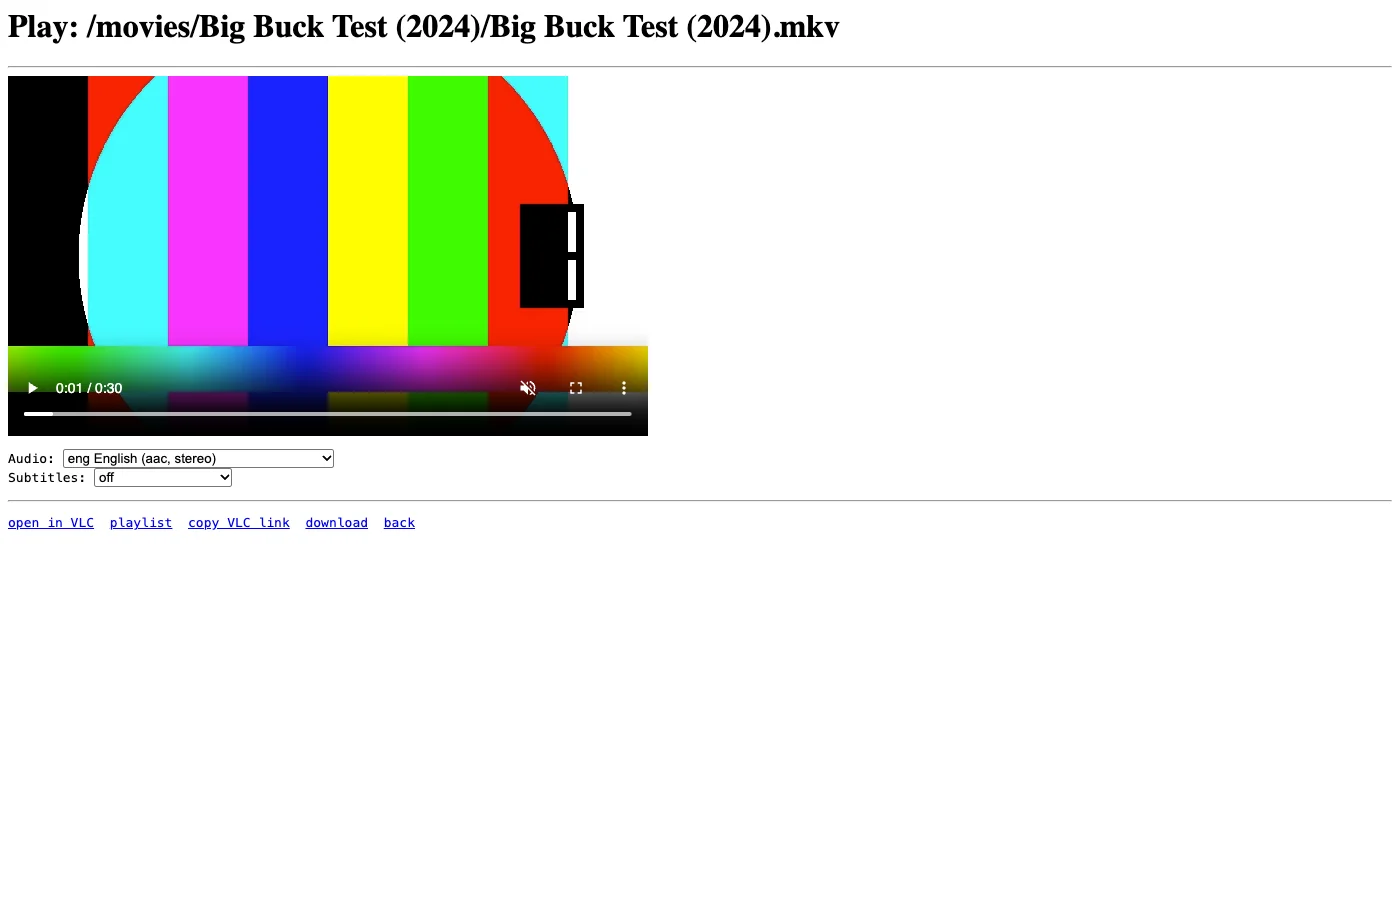
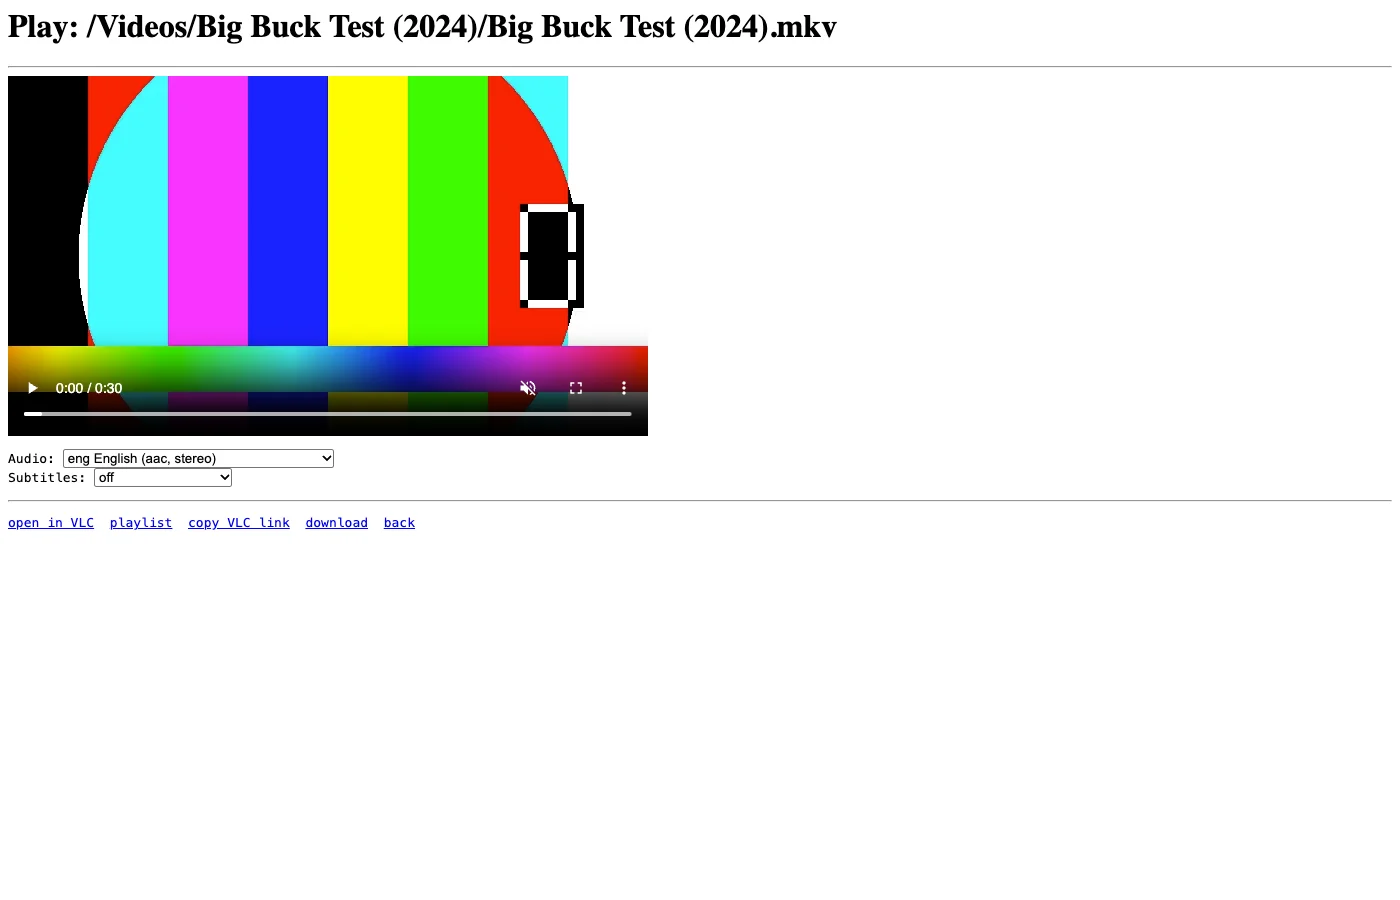
1.0.1: the upload line at the top of a writable folder; a browser test; README files first

Changed region(s): [[0.0614, 0.0, 0.5836, 0.0622], [0.0, 0.3733, 0.4607, 0.4356], [0.3686, 0.2178, 0.3993, 0.3422]]

diff --git a/web/pages/upload.html b/web/pages/upload.html
@@ -17,7 +17,9 @@ fetch('/_settings', { cache: 'no-store' }).then(r => r.ok ? r.json() : null).cat
   if (s && s.mounts) settings = s;
   const w = document.getElementById('w');
   if (searching) w.remove();
-  else if (!writable(here)) { w.textContent = 'read-only folder'; w.hidden = false; }
+  // (Uploads and new folders: any folder of a writable mount, its top level included; only
+  // renaming, moving and deleting spare the mounted folder itself.)
+  else if (settings.mounts[mountOf(here)] !== 'rw') { w.textContent = 'read-only folder'; w.hidden = false; }
   else { w.hidden = false; scpLine(); }
   actions();
 });

diff --git a/README.md b/README.md
@@ -1,8 +1,8 @@
 <h1 align="center">indexof</h1>
 
 <p align="center">
-  <strong>nginx's "Index of /" for the folders on your home server, with the few things it was missing. Self-hosted, no frills.</strong><br>
-  Log in, browse, search, upload, zip a folder, play a video in the browser or open it in VLC. Two small containers, two secrets, any folders you mount.
+  <strong>A plain file server for your home: nginx's "Index of /" with the few things it was missing. Self-hosted, no frills.</strong><br>
+  The household's shared drive, from any browser: browse, upload, download, search, zip, rename, organise. Videos and music play too. Two small containers, two secrets, any folders you mount.
 </p>
 
 <p align="center">
@@ -11,40 +11,35 @@
 </p>
 
 <p align="center">
-  <img src="docs/screenshots/listing.webp" alt="The listing of a movies folder: nginx's Index of /, with the filter and Search line above it, sizes and dates, and [play] [vlc] [zip] on each line" width="900">
+  <img src="docs/screenshots/listing.webp" alt="A Documents folder: nginx's Index of / with sizes and dates, [zip] [rename] [delete] on each line, the search and sort line above, and the upload line, free space and logout below" width="900">
 </p>
 
 ## What it does
 
-- **The listing you know.** It is nginx's own "Index of /", unchanged in look. Above it, a
-  live filter, a Search button (or Enter), sort by name, date or size, pages of 100, checkboxes
-  with "zip selected", the folders' sizes filled in as you look, and the free space.
-- **Search.** Text, folder, files or folders, kind, how many results at most. The results come
-  in the listing's own format, with date and size.
-- **Upload from the browser or the terminal.** Several files, three at a time, each with its %,
-  time left and `[cancel]`; `[cancel all]`; a warning before you leave mid-upload; a cancelled
-  upload leaves nothing behind. New folders, `[rename]` (or move) and `[delete]` in the folders
-  you mount writable. Prefer the terminal? Set `INDEXOF_SCP` and the page shows the `scp` line
-  for the folder you are in, ready to copy.
-- **Zips.** `[zip]` on any folder, or tick some lines and "zip selected". The archive is
-  streamed as it is made, nothing is written on the server; hidden files and symbolic links are
-  left out.
-- **A player that never converts.** `[play]` opens the file as it is: video, audio, pictures
-  (`[view]`). Pick the audio track and the subtitles from what is inside the file. When the
-  browser cannot play a file (Dolby or DTS sound, say), the player says so, and VLC is one click
-  away.
-- **Open in VLC.** `[vlc]` next to a video, "open in VLC" in the player: VLC on your computer
-  plays the file through a temporary link, so everything a browser cannot play still plays. A
-  playlist and "copy VLC link" for computers without the helper.
-- **Any folders, read-only or writable.** Mount what you like under `/data`. A folder mounted
-  `:ro` can be browsed, searched, zipped, played and downloaded, never changed; a writable one
-  takes uploads, new folders, rename, move and delete. Nothing else to configure.
+- **Your folders, from any browser.** Documents, photos, backups, the things you share at home:
+  mount any folders under `/data` and they are there, on the computer or the phone, with nothing
+  to install. It is nginx's own "Index of /", unchanged in look, with sizes and dates.
+- **Upload, download, organise.** Upload from the browser (several files, three at a time, each
+  with its %, time left and `[cancel]`), make folders, `[rename]` or move, `[delete]`, in the
+  folders you mount writable. Download any file with a click. Prefer the terminal? Set
+  `INDEXOF_SCP` and the page shows the `scp` line for the folder you are in, ready to copy.
+- **Find things.** A live filter on the folder you are in, and Search across all of them: text,
+  folder, files or folders, kind (documents, pictures, videos, archives…). Sort by name, date or
+  size; pages of 100; each folder's size filled in as you look; the disk's free space.
+- **Zip and take away.** `[zip]` on any folder, or tick some lines and "zip selected". The
+  archive is streamed as it is made, nothing is written on the server.
+- **Read-only where you want it.** A folder mounted `:ro` can be browsed, searched, downloaded
+  and zipped, never changed. A writable one takes uploads and changes. Nothing else to
+  configure.
+- **Videos, music and pictures too.** `[play]` and `[view]` open them in the browser as they
+  are, never converted, with the audio track and subtitles from inside the file. What the browser
+  cannot play opens in VLC with one click (`[vlc]`).
 - **One password, no accounts.** Everyone in the household uses the same password; a login
   holds 30 days.
 - **Two small containers.** nginx (the unprivileged image) for the pages and the files, and a
-  helper (busybox httpd, zip, ffmpeg) for sizes, search, zips and the player's tracks, on an
-  internal network only nginx can reach. `linux/amd64` and `linux/arm64`. No database, no
-  framework, no build step.
+  helper (busybox httpd, zip, ffmpeg) for sizes, search, zips and the player, on an internal
+  network only nginx can reach. `linux/amd64` and `linux/arm64`. No database, no framework, no
+  build step.
 
 ## Security
 
@@ -104,7 +99,7 @@ services:
       INDEXOF_SCP_ROOT: "${INDEXOF_SCP_ROOT:-}"
     volumes:
       - ./data/share:/data/share # writable: uploads, new folders, rename, move, delete
-      # - /srv/movies:/data/movies:ro # read-only: browse, search, zip, play, download
+      # - /srv/photos:/data/photos:ro # read-only: browse, search, zip, download
     ports:
       - "${INDEXOF_BIND:-127.0.0.1}:${INDEXOF_PORT:-8099}:8080"
     networks: [default, indexof]
@@ -120,7 +115,7 @@ services:
     volumes:
       # The same folders, always read-only: the helper only reads.
       - ./data/share:/data/share:ro
-      # - /srv/movies:/data/movies:ro
+      # - /srv/photos:/data/photos:ro
     networks: [indexof]
     logging: *logging
 
@@ -178,7 +173,7 @@ variables and `docker compose down`.
 ## Folders
 
 - **Anything under `/data`.** Each folder you mount becomes one entry on the home page, with its
-  name in the container (`/srv/movies:/data/movies:ro` shows as `movies`). Mount it in both
+  name in the container (`/srv/photos:/data/photos:ro` shows as `photos`). Mount it in both
   services: the page serves it, the helper (always `:ro`) measures, searches and zips it.
 - **`:ro` means browse-only.** nginx refuses every write on it, and the kernel would refuse
   anyway. Without `:ro`, the folder takes uploads, new folders, rename, move and delete, and

diff --git a/CHANGELOG.md b/CHANGELOG.md
@@ -7,6 +7,22 @@ and `latest`; the GitHub release takes its notes from that version's section bel
 
 ## [Unreleased]
 
+## [1.0.1] - 2026-10-31
+
+### Fixed
+
+- The upload line (Upload, New folder, the scp line) was hidden at the top of a writable folder,
+  which said "read-only folder" instead; its subfolders were fine.
+
+### Added
+
+- A browser test (`tests/ui.mjs`, run by the integration test when Chrome is there) of what the
+  page shows: the upload line, "read-only folder", [rename] and [delete] where they belong.
+
+### Changed
+
+- The README presents indexof as what it is first: a file server for the home, media second.
+
 ## [1.0.0] - 2026-10-31
 
 The first release: the file page of a private homelab, turned into a project anyone can run.
@@ -75,5 +91,6 @@ history.
 
 [Unreleased]: https://github.com/lborruto/indexof/commits/main
 
-[Unreleased]: https://github.com/lborruto/indexof/compare/v1.0.0...HEAD
+[Unreleased]: https://github.com/lborruto/indexof/compare/v1.0.1...HEAD
+[1.0.1]: https://github.com/lborruto/indexof/compare/v1.0.0...v1.0.1
 [1.0.0]: https://github.com/lborruto/indexof/releases/tag/v1.0.0
